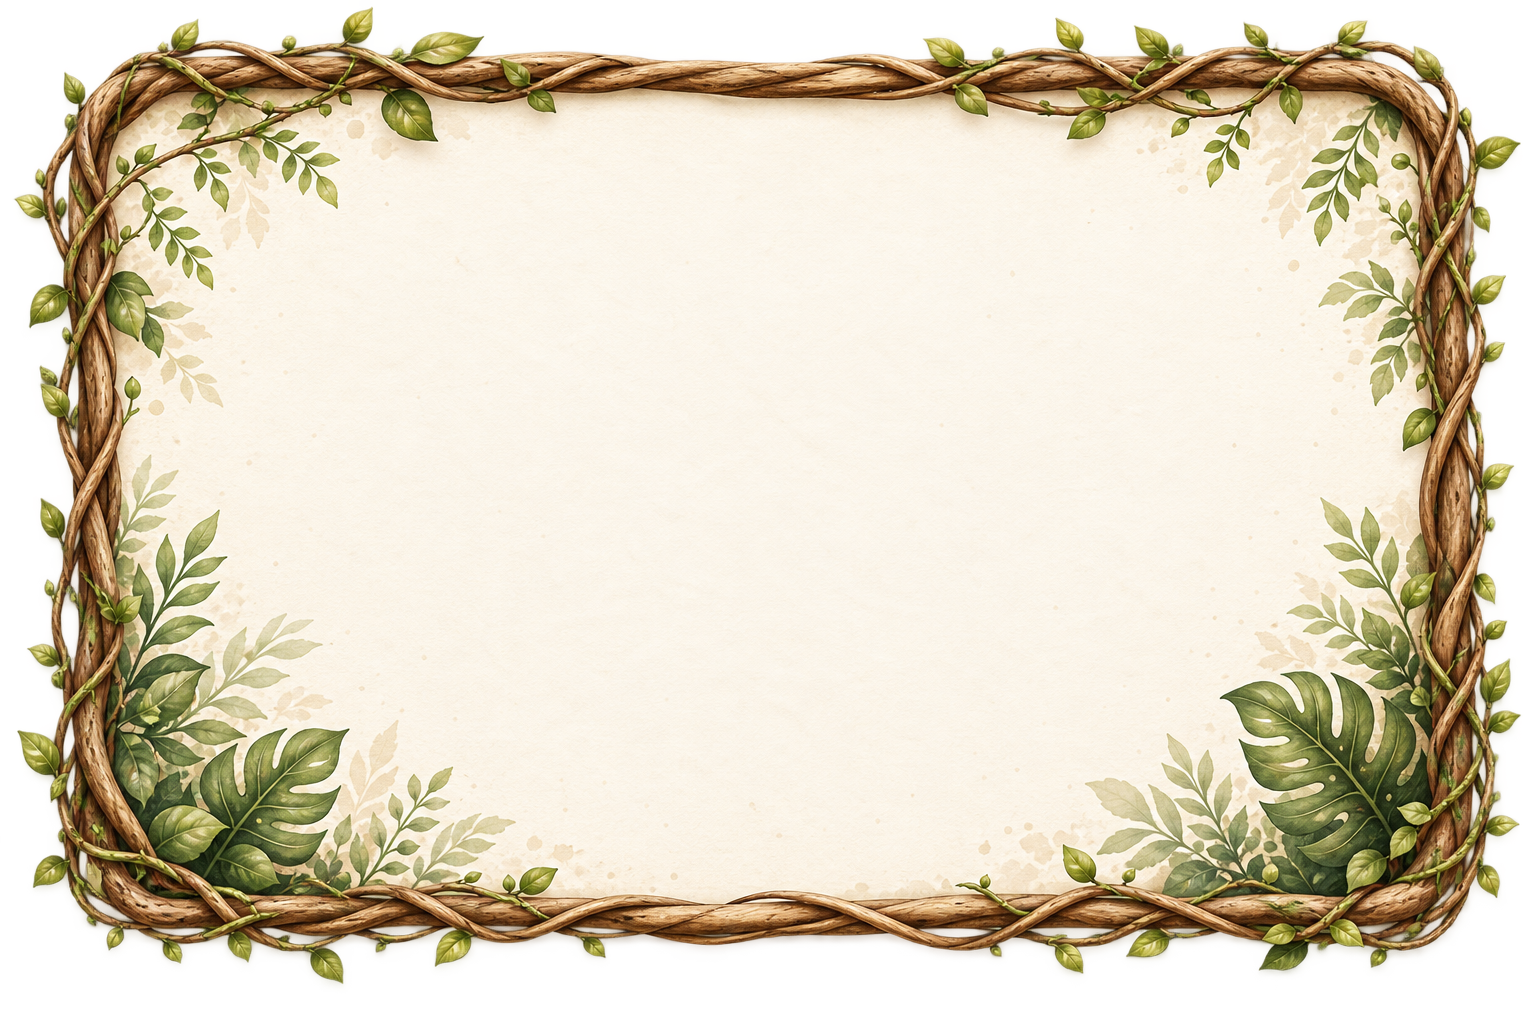
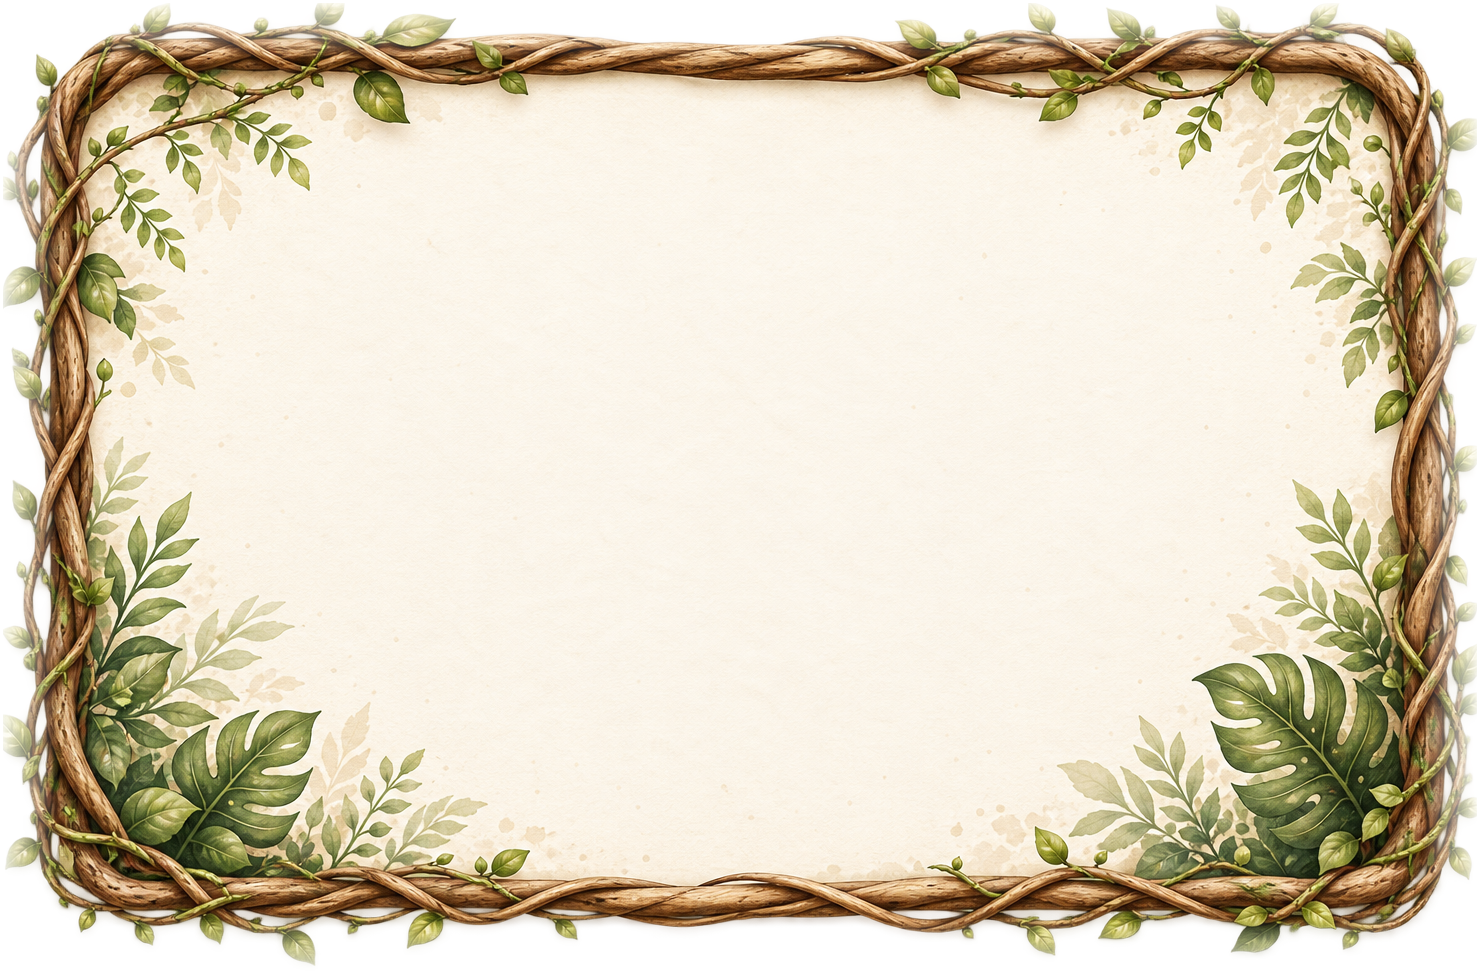
Faagas keret szelenek lagy beolvasztasa

diff --git a/style.css b/style.css
@@ -3063,44 +3063,16 @@ textarea {
 }
 
 /* =========================================================
-   PROGRAM OLDAL – KERET SZÉLÉNEK JAVÍTÁSA V2
-   Kiindulás: a már majdnem jó, kompakt faágas verzió.
-   Csak a keret körüli téglalap-hatás tűnik el.
+   PROGRAM OLDAL – FAÁGAS KERET LÁGY BEOLVASZTÁSA
+   A 16:43-as jó elrendezés marad.
+   A PNG széle most áttetsző, ezért nem látszik a téglalap.
 ========================================================= */
 
 #program .event-card {
-    /* Ne legyen külön téglalap alakú kártyaháttér
-       a faágas border-image mögött. A PNG "fill" része
-       továbbra is kitölti a keret belsejét. */
-    background: transparent !important;
-
-    /* A négyszögletes box-shadow okozta külső kontúr eltűnik. */
     box-shadow: none !important;
-
-    /* Semmilyen alap háttér ne rajzolódjon ki a keret sarkainál. */
-    background-color: transparent !important;
 }
 
-/* A PNG középső pergamenrésze maradjon meg,
-   így a belső tartalom háttere nem változik. */
-#program .event-card {
-    border-image-slice: 105 fill !important;
-}
-
-/* A keret körül ne legyen külön háttér a böngésző festési rétegéből. */
 #program .event-card::before,
 #program .event-card::after {
-    background: transparent !important;
     box-shadow: none !important;
-}
-
-/* Mobilon is pontosan ugyanez. */
-@media (max-width: 700px) and (orientation: portrait) {
-
-    #program .event-card {
-        background: transparent !important;
-        background-color: transparent !important;
-        box-shadow: none !important;
-        border-image-slice: 105 fill !important;
-    }
 }

diff --git a/index.html b/index.html
@@ -23,7 +23,7 @@
         rel="stylesheet"
     >
 
-    <link rel="stylesheet" href="style.css?v=20260810-program-frame-clean-v2">
+    <link rel="stylesheet" href="style.css?v=20260810-frame-feather-01">
 </head>
 
 <body>
